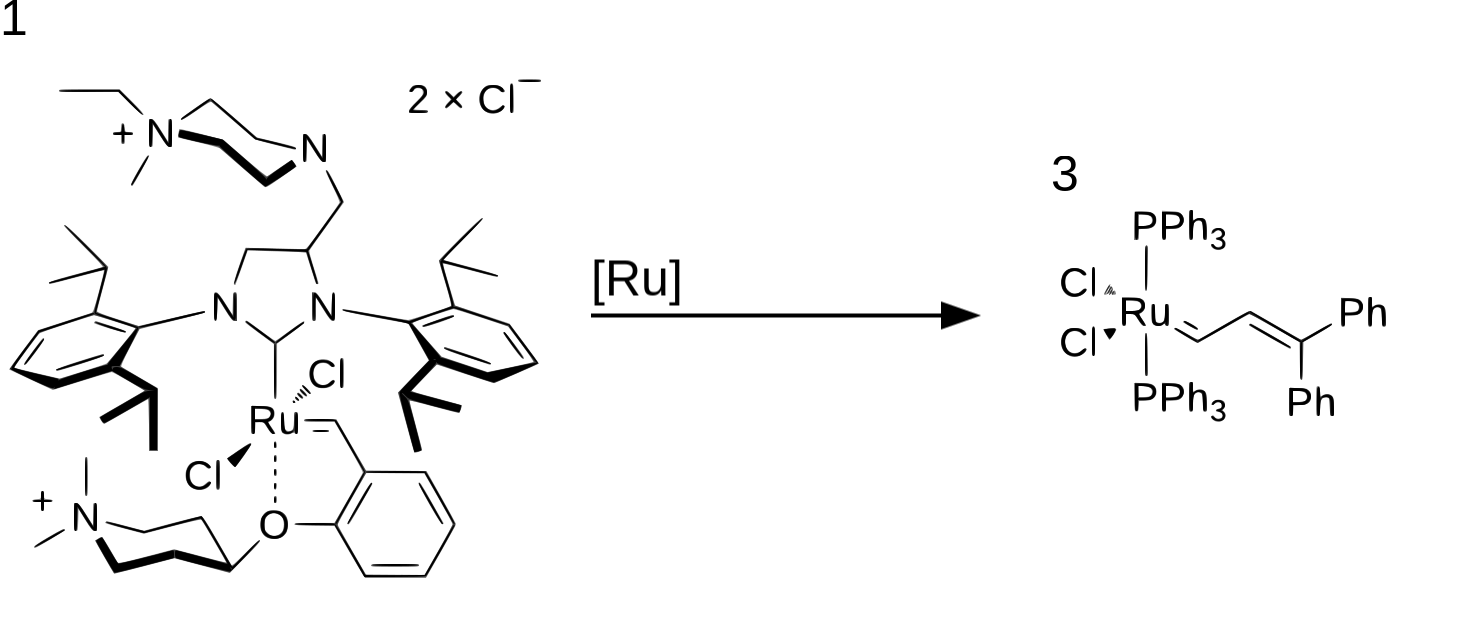
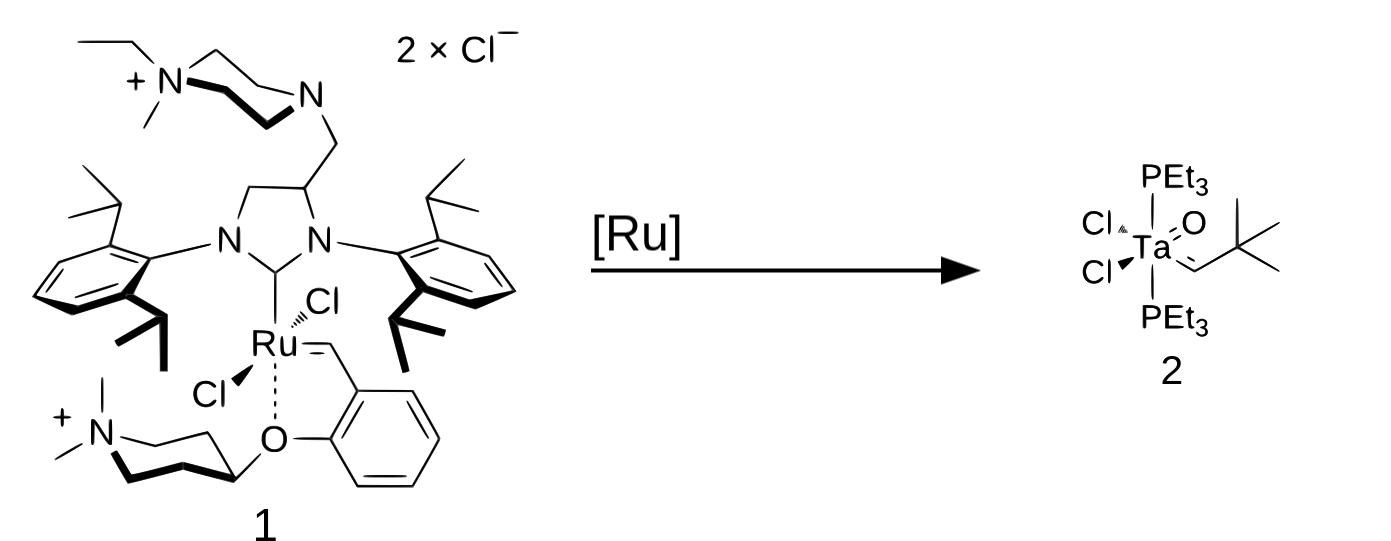
now number is below the structure

diff --git a/phd-image-enumerator.js b/phd-image-enumerator.js
@@ -2,7 +2,8 @@
 
 const potrace = require('potrace'),
     fs = require('fs'),
-    path = require('path');
+    path = require('path'),
+    is = require('image-size');
 
     //count files of .tif type and rename them so that their names form a sorted series without holes
     let maxTif = 0;
@@ -17,7 +18,7 @@ const potrace = require('potrace'),
 
       const config = {
         x: 0,
-        y: -10,
+        y: 50,
         fontSize: 50,
         fontFamily: "Arial, Helvetica, sans-serif"
       }
@@ -32,7 +33,9 @@ const potrace = require('potrace'),
         let sourcePath = './'+i+'.tif';
         try {
           if (fs.existsSync(sourcePath)) {
-            getTifAndMakeSvg(sourcePath, config, i, empties);
+            //take image dimensions
+            let imgSize = is(sourcePath);
+            getTifAndMakeSvg(sourcePath, config, i, empties, imgSize.width, imgSize.height);
 
           } else {
             empties++; //
@@ -47,13 +50,13 @@ const potrace = require('potrace'),
 
 
 
-function getTifAndMakeSvg(path, conf, index, empties) {
+function getTifAndMakeSvg(path, conf, index, empties, imgWidth, imgHeight) {
   potrace.posterize(path, {threshold: 180, steps: 4}, function(err, svg) {
     if (err) throw err;
     // append number to the svg file
-    let txt = generateStyledIndex (conf, index, empties);
+    let txt = generateStyledIndex (conf, index, empties, imgWidth, imgHeight);
 
-    let enlargedSvg = getHigher(svg);
+    let enlargedSvg = getBiggerViewBox(svg, imgWidth, imgHeight, conf);
     // find </svg> in the file and replace with txt
     let newSvg = enlargedSvg.replace("</svg>", txt);
     let destPath = path.replace(".tif", ".svg");
@@ -61,15 +64,14 @@ function getTifAndMakeSvg(path, conf, index, empties) {
   })
 }
 
-function getHigher(svg){
+function getBiggerViewBox(svg, width, height, config){
   // make the svg a bit higher fo fit the text into it
-  let heightAttr = svg.match(/height=\"[0-9]+/);
-  //parse heightAttr
-  let newHeight = parseInt(heightAttr[0].replace("height=\"","")) + 90;
-  return svg.replace(/height=\"[0-9]+/, "height=\"" + newHeight);
+  let newHeight = height+config.y;
+  let newViewBox = "viewBox=\"0 0 "+width +" "+ newHeight+"\"";
+  return svg.replace(/viewBox=\"0 0 [0-9]+ [0-9]+\"/, newViewBox);
 }
 
 
-function generateStyledIndex (configs, number, empties) {
-  return '<text x=\"'+configs.x+'\" y=\"'+configs.y+'\" font-size=\"'+configs.fontSize+'\" font-family=\"'+configs.fontFamily+'\">'+(number-empties)+'</text></svg>';
+function generateStyledIndex (configs, number, empties, imgWidth, imgHeight) {
+  return '<text x=\"'+((imgWidth/2)+configs.x-(configs.fontSize/2))+'\" y=\"'+(imgHeight+configs.y)+'\" font-size=\"'+configs.fontSize+'\" font-family=\"'+configs.fontFamily+'\">'+(number-empties)+'</text></svg>';
 }
